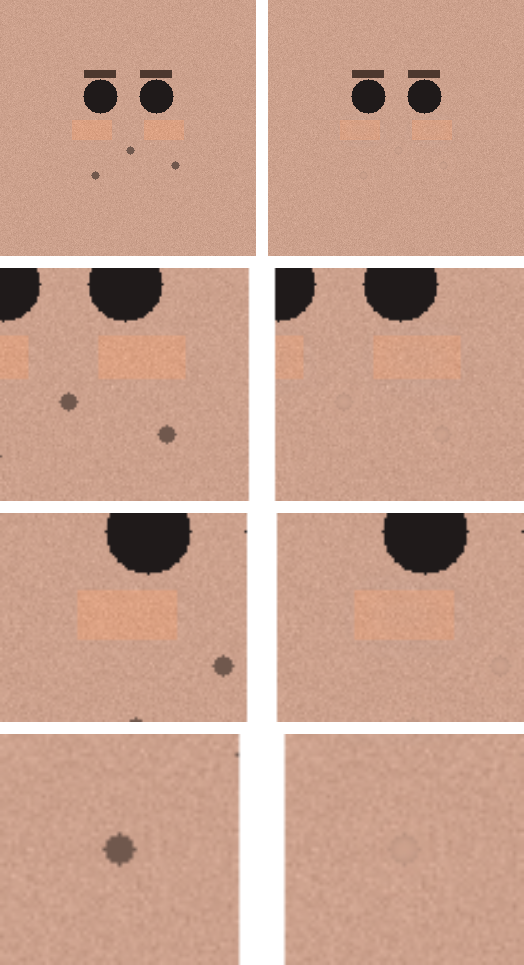
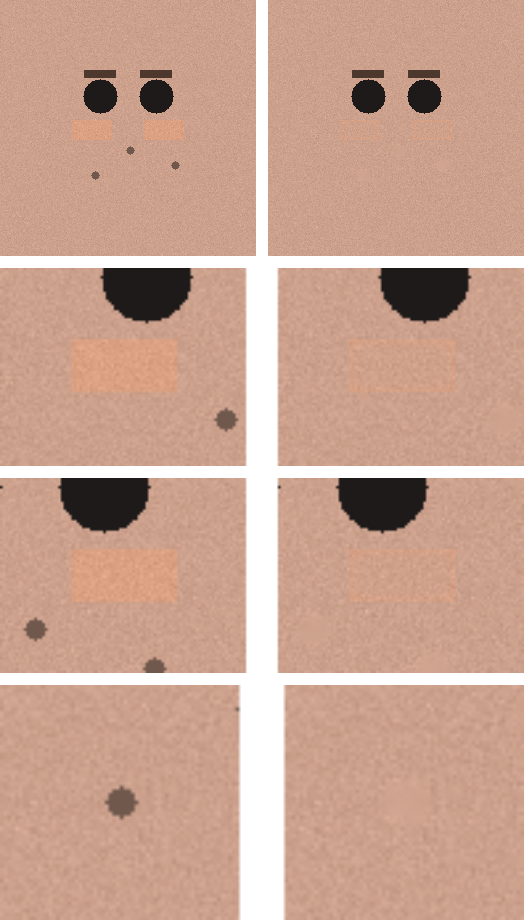
Auto-discover latest OpenAI model; scale spatial params by resolution
Model: OpenAIGenerator auto-discovers the newest non-mini gpt-image model via the models API at call time. --model / $OPENAI_IMAGE_MODEL pin it; a constant is used only if the API is unreachable. Nothing is hard-pinned, so a future gpt-image-3 is adopted with no code change (gpt-image-1 is deprecated).

Resolution: freq_sigma and feather_px are defined at config.reference_dim (1024) and scaled to each image's actual size, so an 8px-at-1024 blur becomes ~32px at 4096 instead of being useless. Behaviour is now resolution-independent.

Tests: added discovery / fallback / pinning coverage (24 total).

diff --git a/actor-headshot-retouch/retoucher/generate.py b/actor-headshot-retouch/retoucher/generate.py
@@ -59,10 +59,10 @@ class MockGenerator:
         return self._transform(image_rgb).astype(np.float32)
 
 
-# Resolution order: explicit arg -> $OPENAI_IMAGE_MODEL -> current latest.
-# Never hard-pin a model that will be deprecated; the env var lets you point at
-# the next model with no code change.
-DEFAULT_OPENAI_IMAGE_MODEL = "gpt-image-2"  # current latest as of 2026-06
+# Last-resort only, used if the live models API can't be reached. The OPERATIVE
+# default is auto-discovered at runtime (see discover_latest_image_model), so a
+# new release like gpt-image-3 is picked up with zero code change.
+FALLBACK_OPENAI_IMAGE_MODEL = "gpt-image-2"
 
 # The three fixed sizes the legacy gpt-image-1 supports. gpt-image-2 takes
 # flexible sizes and "auto", so this is only used when you pin gpt-image-1 and
@@ -76,23 +76,59 @@ def closest_gpt_image_size(width: int, height: int) -> str:
     return min(GPT_IMAGE_1_SIZES, key=lambda s: abs(GPT_IMAGE_1_SIZES[s] - aspect))
 
 
-def resolve_openai_model(model: str | None = None) -> str:
-    return model or os.environ.get("OPENAI_IMAGE_MODEL") or DEFAULT_OPENAI_IMAGE_MODEL
+def discover_latest_image_model(client) -> str:
+    """Newest non-mini ``gpt-image*`` model the account can see.
+
+    Picks by the model's ``created`` timestamp, so new releases are adopted
+    automatically with no code change. Mini variants are excluded as the
+    cheaper, lower-fidelity tier.
+    """
+    models = list(client.models.list().data)
+    candidates = [
+        m for m in models
+        if str(getattr(m, "id", "")).startswith("gpt-image") and "mini" not in str(m.id)
+    ]
+    if not candidates:
+        raise RuntimeError("no gpt-image models available to this account")
+    return max(candidates, key=lambda m: getattr(m, "created", 0) or 0).id
+
+
+def pinned_openai_model(model: str | None = None) -> str | None:
+    """A model the user pinned via arg or $OPENAI_IMAGE_MODEL, else None (auto-discover)."""
+    return model or os.environ.get("OPENAI_IMAGE_MODEL") or None
 
 
 class OpenAIGenerator:
     """OpenAI image-edit backend.
 
-    Defaults to the current latest model and resolves from $OPENAI_IMAGE_MODEL,
-    so shipping the next model needs no code change. The pipeline never trusts
-    these pixels globally, and this one-method seam makes swapping to FLUX.1
-    Kontext / Gemini / a local model trivial.
+    By default it auto-discovers OpenAI's latest gpt-image model at call time, so
+    a new release needs no code change. Pin a specific model with the ``model``
+    arg or ``$OPENAI_IMAGE_MODEL``. The pipeline never trusts these pixels
+    globally, and this one-method seam makes swapping to FLUX.1 Kontext / Gemini
+    / a local model trivial.
     """
 
     def __init__(self, model: str | None = None, quality: str = "high", size: str = "auto"):
-        self.model = resolve_openai_model(model)
+        self.pinned_model = pinned_openai_model(model)  # None => auto-discover latest
         self.quality = quality  # "high" gives a more faithful target (costs more)
         self.size = size  # "auto" (default), explicit "WxH", or "bucket" (legacy gpt-image-1)
+        self._discovered: str | None = None
+
+    @property
+    def model(self) -> str | None:
+        """The model that will be used: the pinned id, or the discovered one once
+        resolved. None means discovery has not run yet (it runs at edit time)."""
+        return self.pinned_model or self._discovered
+
+    def _model_for(self, client) -> str:
+        if self.pinned_model:
+            return self.pinned_model
+        if not self._discovered:
+            try:
+                self._discovered = discover_latest_image_model(client)
+            except Exception:
+                self._discovered = FALLBACK_OPENAI_IMAGE_MODEL
+        return self._discovered
 
     def edit(self, image_rgb: np.ndarray, prompt: str) -> np.ndarray:
         try:
@@ -115,7 +151,7 @@ class OpenAIGenerator:
 
         client = OpenAI()  # reads OPENAI_API_KEY from the environment
         result = client.images.edit(
-            model=self.model, image=image_arg, prompt=prompt,
+            model=self._model_for(client), image=image_arg, prompt=prompt,
             size=size, quality=self.quality, n=1,
         )
         data = getattr(result, "data", None) or []

diff --git a/actor-headshot-retouch/tests/test_generate.py b/actor-headshot-retouch/tests/test_generate.py
@@ -1,11 +1,24 @@
-"""Generator backend tests that need no API key."""
+"""Generator backend tests that need no API key or network."""
 from __future__ import annotations
 
-import os
+import types
 
 import numpy as np
 
-from retoucher.generate import MockGenerator, OpenAIGenerator, closest_gpt_image_size, get_generator
+from retoucher.generate import (
+    FALLBACK_OPENAI_IMAGE_MODEL,
+    MockGenerator,
+    OpenAIGenerator,
+    closest_gpt_image_size,
+    discover_latest_image_model,
+    get_generator,
+)
+
+
+def _fake_client(ids_created):
+    data = [types.SimpleNamespace(id=i, created=c) for i, c in ids_created]
+    models = types.SimpleNamespace(list=lambda: types.SimpleNamespace(data=data))
+    return types.SimpleNamespace(models=models)
 
 
 def test_closest_size_matches_aspect():
@@ -17,18 +30,39 @@ def test_closest_size_matches_aspect():
 
 def test_factory_returns_backends():
     assert isinstance(get_generator("mock"), MockGenerator)
-    g = get_generator("openai")                                # constructs without importing openai
+    g = get_generator("openai")
     assert isinstance(g, OpenAIGenerator)
-    assert g.model == os.environ.get("OPENAI_IMAGE_MODEL", "gpt-image-2")
+    assert g.pinned_model is None        # unpinned -> auto-discovers latest at call time
     assert g.quality == "high"
 
 
-def test_model_resolution_and_override(monkeypatch):
+def test_pinning_via_arg_or_env(monkeypatch):
     monkeypatch.delenv("OPENAI_IMAGE_MODEL", raising=False)
-    assert OpenAIGenerator().model == "gpt-image-2"                     # current latest default
-    assert OpenAIGenerator(model="gpt-image-9").model == "gpt-image-9"  # explicit wins
+    assert OpenAIGenerator().pinned_model is None                       # default = auto-discover
+    assert OpenAIGenerator(model="gpt-image-9").model == "gpt-image-9"  # arg pins
     monkeypatch.setenv("OPENAI_IMAGE_MODEL", "gpt-image-3")
-    assert OpenAIGenerator().model == "gpt-image-3"                     # env override, no code change
+    assert OpenAIGenerator().model == "gpt-image-3"                     # env pins, no code change
+
+
+def test_discovery_auto_adopts_newest_non_mini(monkeypatch):
+    monkeypatch.delenv("OPENAI_IMAGE_MODEL", raising=False)
+    client = _fake_client([
+        ("gpt-image-1", 100), ("gpt-image-2", 200), ("gpt-image-2-mini", 250),
+        ("dall-e-3", 300), ("gpt-image-3", 400),
+    ])
+    # Newest gpt-image (a future gpt-image-3) wins; mini and dall-e excluded.
+    assert discover_latest_image_model(client) == "gpt-image-3"
+    assert OpenAIGenerator()._model_for(client) == "gpt-image-3"
+
+
+def test_discovery_falls_back_when_api_unreachable(monkeypatch):
+    monkeypatch.delenv("OPENAI_IMAGE_MODEL", raising=False)
+
+    def boom():
+        raise RuntimeError("network down")
+
+    broken = types.SimpleNamespace(models=types.SimpleNamespace(list=boom))
+    assert OpenAIGenerator()._model_for(broken) == FALLBACK_OPENAI_IMAGE_MODEL
 
 
 def test_mock_generator_runs_offline():

diff --git a/actor-headshot-retouch/retoucher/config.py b/actor-headshot-retouch/retoucher/config.py
@@ -60,14 +60,19 @@ class QAThresholds:
 class PipelineConfig:
     # hybrid-map | light-retouch | light-regen
     mode: str = "hybrid-map"
-    # Frequency separation: Gaussian sigma (px) that splits low-freq tone from
-    # high-freq texture. Larger = coarser tone layer.
+    # Spatial params below (freq_sigma, feather_px) are expressed at this
+    # reference width; the pipeline scales them to the image's actual size so
+    # behaviour is the same on a 512px and a 4096px file. Never assume a fixed
+    # resolution.
+    reference_dim: int = 1024
+    # Frequency separation: Gaussian sigma (px at reference_dim) that splits
+    # low-freq tone from high-freq texture. Larger = coarser tone layer.
     freq_sigma: float = 8.0
     # Per-region transfer strength in [0, 1]. 1.0 takes the full mapped delta.
     strength: float = 0.85
     # Remove a uniform colour cast the model may add, so complexion never drifts.
     neutralize_global_cast: bool = True
-    # Feather (px) applied to every mask edge to avoid seams / halos.
+    # Feather (px at reference_dim) applied to every mask edge to avoid seams.
     feather_px: float = 12.0
     # Max megapixels sent to the generator; the original is restored afterwards.
     generator_max_mp: float = 1.5

diff --git a/actor-headshot-retouch/retoucher/pipeline.py b/actor-headshot-retouch/retoucher/pipeline.py
@@ -8,7 +8,7 @@ original's own texture.
 from __future__ import annotations
 
 import json
-from dataclasses import dataclass
+from dataclasses import dataclass, replace
 from pathlib import Path
 
 import numpy as np
@@ -48,6 +48,13 @@ def retouch_image(
     loaded = image_io.load(source_path)
     original = loaded.pixels
 
+    # Scale pixel-based params to the image's actual size so behaviour is
+    # resolution-independent (an 8px blur on a 4096px file would be useless).
+    spatial = max(original.shape[:2]) / float(cfg.reference_dim)
+    cfg = replace(
+        cfg, freq_sigma=cfg.freq_sigma * spatial, feather_px=cfg.feather_px * spatial
+    )
+
     # 1) Propose a retouch target (downscaled to keep generation affordable).
     gen_input, scale = image_io.resize_to_megapixels(original, cfg.generator_max_mp)
     target = generator.edit(gen_input, prompts.prompt_for(cfg.mode))
@@ -72,6 +79,7 @@ def retouch_image(
     report = {
         "source": str(source_path),
         "mode": cfg.mode,
+        "spatial_scale": round(spatial, 4),
         "generator_scale": round(scale, 4),
         "alignment": {"method": align.method, "score": round(align.score, 4), "success": align.success},
         "edited_fraction": round(float((masks.edited() > 0.05).mean()), 4),

diff --git a/actor-headshot-retouch/retoucher/mask.py b/actor-headshot-retouch/retoucher/mask.py
@@ -119,9 +119,9 @@ def build_masks(
 
     by_kind = {
         "tone": _feather(tone, cfg.feather_px),
-        # Marks are small; a tight feather keeps the core at full strength so the
-        # heal actually lands, while still softening the rim.
-        "heal": _feather(heal, 2.0),
+        # Marks are small; a tight feather (derived from feather_px so it scales
+        # with resolution) keeps the core at full strength so the heal lands.
+        "heal": _feather(heal, max(1.0, cfg.feather_px / 6.0)),
     }
     return RegionMasks(by_kind=by_kind, skin=skin, by_region=by_region)
 

diff --git a/README.md b/README.md
@@ -100,13 +100,13 @@ print(res.qa.verdict, res.report["qa"])
 
 ## The model is swappable
 
-OpenAI `gpt-image-2` (the current latest) is the default. It resolves from the `OPENAI_IMAGE_MODEL` environment variable, then `--model`, so when OpenAI ships the next model you point at it with no code change:
+By default the OpenAI backend **auto-discovers the latest `gpt-image` model at runtime** (via the models API), so a new release like `gpt-image-3` is adopted with no code change. Nothing is hard-pinned. Pin a specific model if you want to:
 
 ```bash
 export OPENAI_IMAGE_MODEL=gpt-image-3   # or pass --model gpt-image-3
 ```
 
-The generator is still the weakest part of the chain for this workflow (it tends to regenerate and recolor), but the pipeline never trusts its pixels globally, so the model matters less than in a regenerate-everything tool. To swap in FLUX.1 Kontext, Gemini, or a local model, implement the one-method `Generator` interface in [`retoucher/generate.py`](actor-headshot-retouch/retoucher/generate.py); nothing else changes.
+It falls back to a known model only if the models API is unreachable. The generator is still the weakest part of the chain for this workflow (it tends to regenerate and recolor), but the pipeline never trusts its pixels globally, so the model matters less than in a regenerate-everything tool. To swap in FLUX.1 Kontext, Gemini, or a local model, implement the one-method `Generator` interface in [`retoucher/generate.py`](actor-headshot-retouch/retoucher/generate.py); nothing else changes.
 
 ## Limitations
 